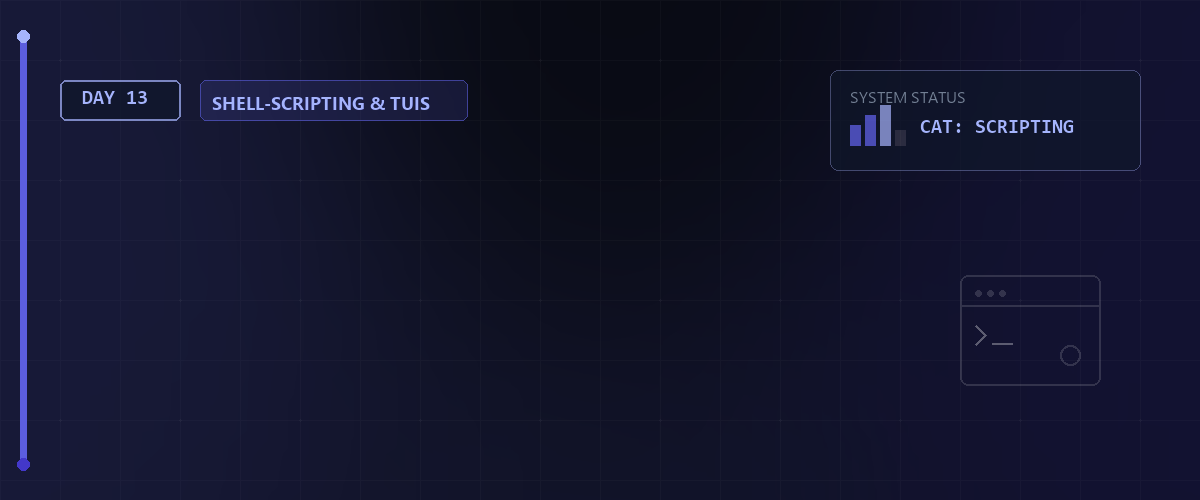
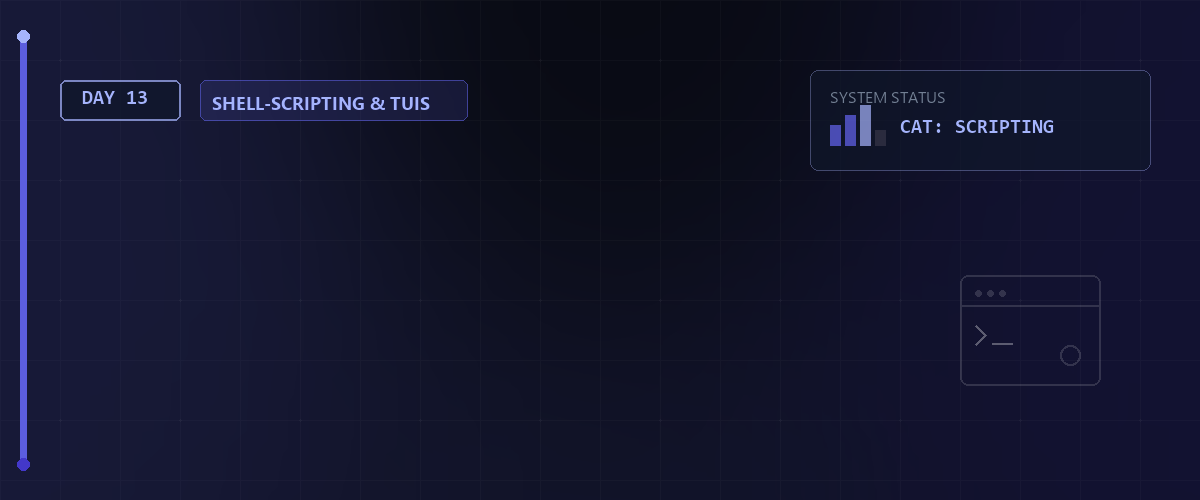
refactor(Day_13): move user management histories and tasks to Day 13 assets

Changed region(s): [[0.6783, 0.18, 0.8942, 0.3]]

diff --git a/Day_13/README.md b/Day_13/README.md
@@ -191,6 +191,16 @@ done < datei.csv
 
 </details>
 
+## 📚 Ressourcen & Dokumente
+Im [Assets](./assets)-Verzeichnis finden Sie die Unterlagen zu diesem Tag:
+
+- [Benutzerverwaltung Leitfaden (PDF)](./assets/SkriptBenutzererwaltung.pdf)
+- [Kurs-Historie Tag 13 (TXT)](./assets/rockyHis20260522-1600.txt)
+- [Praxis-Aufgabe (User-Massenanlage) (TXT)](./assets/userAnlegen-admin-debian-mint)
+- [Praxis-Historie (Root-User-Verwaltung) (TXT)](./assets/history-root-admin-userVerwaltung-202606091643)
+
+---
+
 ## 🔗 6. Zurück zur Übersicht
 
 [⬅ Zurück zur Übersicht](../README.md)
